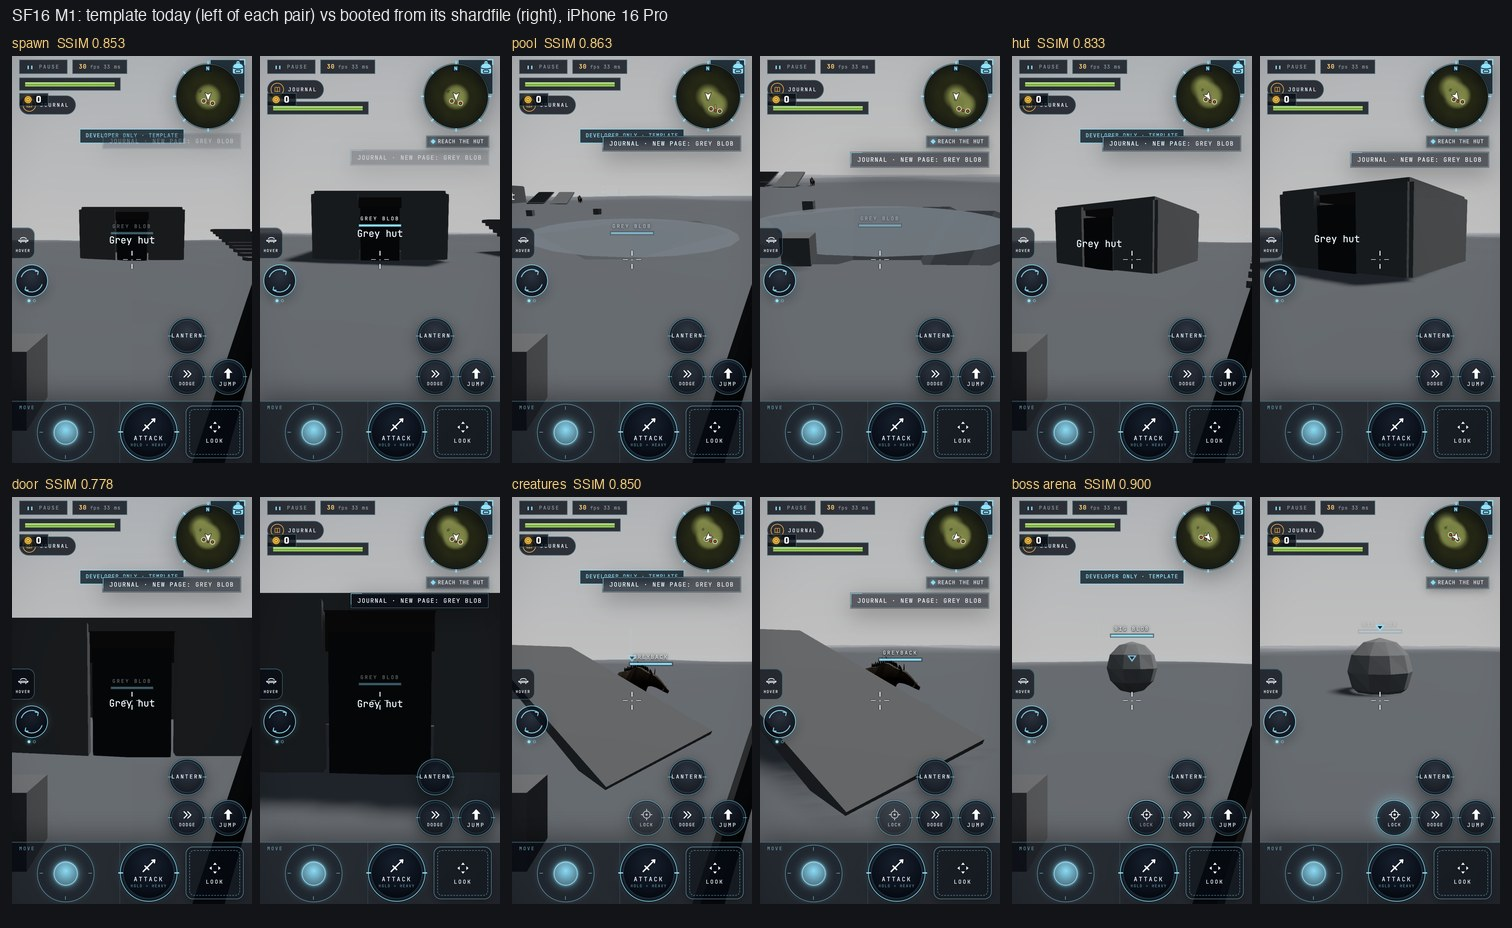
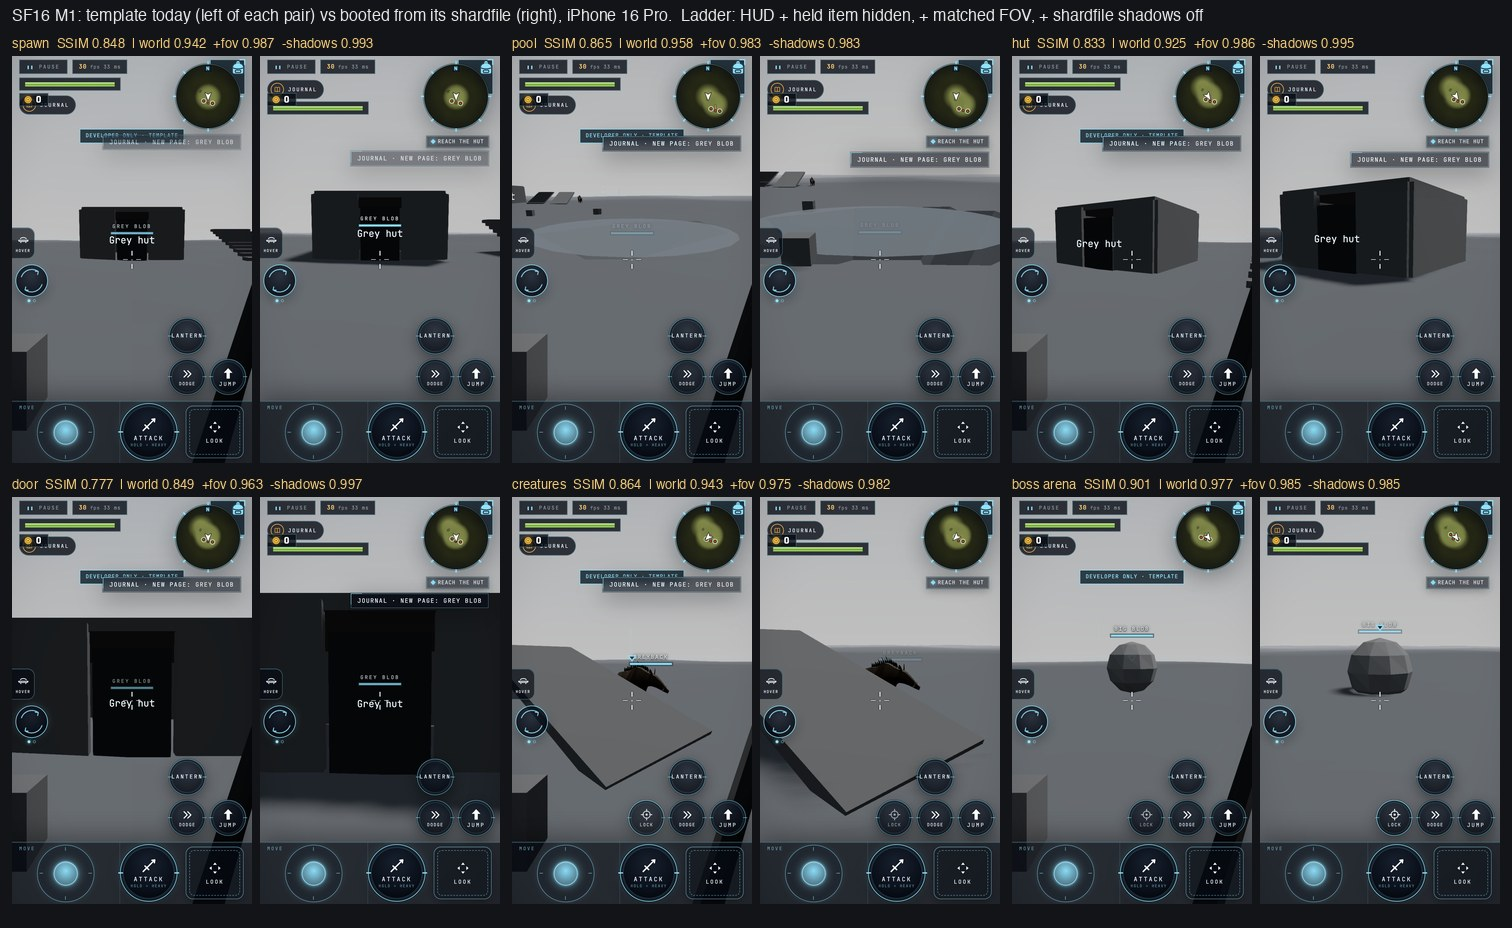
SHARD-PLATFORM SF16: the look board's differences, measured and named
The M1 board is one command now: progress/shard-platform/sf16/run.sh <scratch>
exports the client ref (HEAD) and a pinned legacy ref with git archive, builds
both, assembles the shardfile client (build + --product-only + ws-shardfile)
and runs board.mjs through the browser lane, so the shared tree's uncommitted
legacy-template deletion cannot reach either side.

board.mjs adds an attribution ladder per camera (diagnostic captures, never on
the board): HUD + held items hidden, + the shardfile camera at today's FOV,
+ shardfile shadows off. Full / world / +fov / -shadows:
spawn 0.848 / 0.942 / 0.987 / 0.993, pool 0.865 / 0.958 / 0.983 / 0.983,
hut 0.833 / 0.925 / 0.986 / 0.996, door 0.778 / 0.849 / 0.963 / 0.997,
creatures 0.864 / 0.943 / 0.975 / 0.982, boss 0.901 / 0.977 / 0.985 / 0.985.
board-world.jpg shows the residual at the +fov step.

The biggest term is FOV: today's held whip (SweptMelee) owns camera.fov at
Hor+ portrait 86.8 deg; the shardfile client holds no item, so its camera
stays at 72 deg and every frame is zoomed in (the "lighter pool" and the
"one-slab treads" were that zoom; the treads are faceted on both sides). It
closes with the declared whip view (sp-x5). The darker ground at the door is
the hut's baked L0 shadow (intended, 80 m rule). Look, fog, exposure, sky and
materials match (ground 105 / sky 181 luma on both). evidence.json names
every remaining difference: HUD, held item, FOV, shadows, pool basin (1.95 m
[…]

diff --git a/progress/shard-platform/sf16/compose.py b/progress/shard-platform/sf16/compose.py
@@ -1,5 +1,6 @@
 #!/usr/bin/env python3
-"""SF16 M1 board: rows of (today | from its shardfile) per camera, labelled with SSIM; JPEG <= 500 KB."""
+"""SF16 M1 board: rows of (today | from its shardfile) per camera, labelled with SSIM; JPEG <= 500 KB.
+usage: compose.py <shots.json> <out.jpg> [title]"""
 import io
 import json
 import sys
@@ -25,11 +26,14 @@ try:
     small = ImageFont.truetype('/System/Library/Fonts/Helvetica.ttc', 13)
 except OSError:
     font = small = ImageFont.load_default()
-draw.text((12, 8), 'SF16 M1: template today (left of each pair) vs booted from its shardfile (right), iPhone 16 Pro', fill=(230, 230, 230), font=font)
+title = sys.argv[3] if len(sys.argv) > 3 else 'SF16 M1: template today (left of each pair) vs booted from its shardfile (right), iPhone 16 Pro.  Ladder: HUD + held item hidden, + matched FOV, + shardfile shadows off'
+draw.text((12, 8), title, fill=(230, 230, 230), font=font)
 for i, (pair, shot) in enumerate(cells):
     x = 12 + (i % cols) * (pair_w + 12)
     y = header + (i // cols) * (cell_h + 12)
-    draw.text((x, y + 3), f"{shot['name']}  SSIM {shot['ssim']:.3f}", fill=(240, 200, 120), font=small)
+    ladder = shot.get('ladder')
+    steps = f"  | world {ladder['world']:.3f}  +fov {ladder['fov']:.3f}  -shadows {ladder['shadows']:.3f}" if ladder else ''
+    draw.text((x, y + 3), f"{shot['name']}  SSIM {shot['ssim']:.3f}{steps}", fill=(240, 200, 120), font=small)
     board.paste(pair[0], (x, y + label))
     board.paste(pair[1], (x + W + 8, y + label))
 quality = 88
